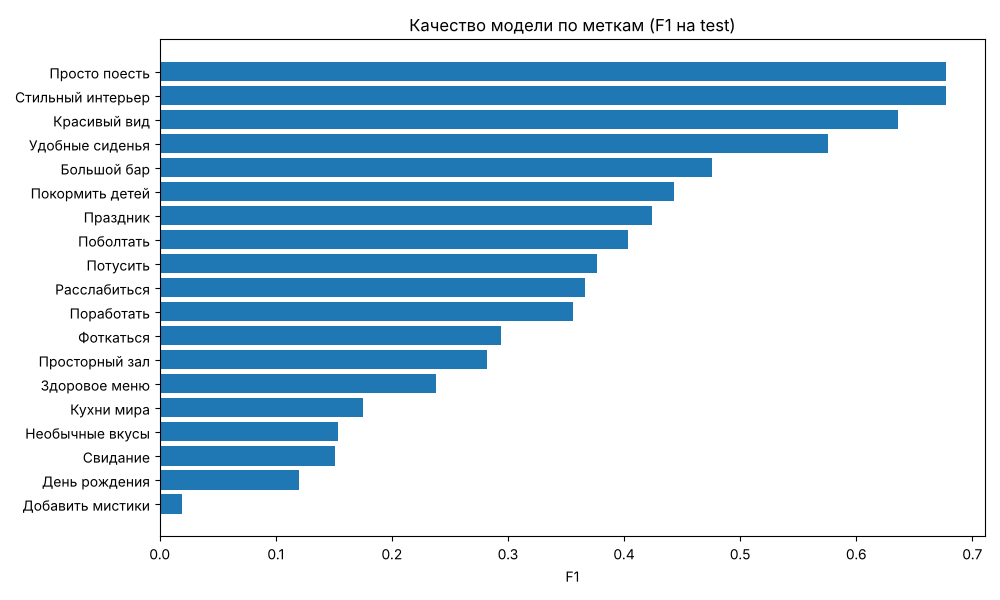
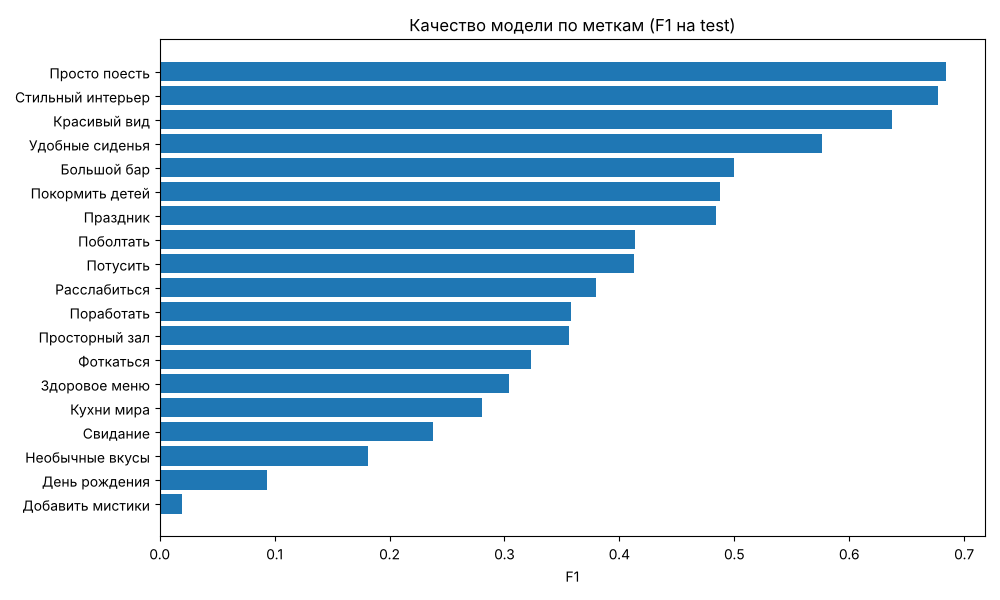
steps 6-9: train on lemmatized text_clean, update charts

diff --git a/step6_tfidf.py b/step6_tfidf.py
@@ -5,13 +5,14 @@ from sklearn.feature_extraction.text import TfidfVectorizer
 train = pd.read_csv("data/train.csv")
 test = pd.read_csv("data/test.csv")
 
-# берём 10 000 самых частых слов. lowercase=True - "Вкусно" и "вкусно" одно слово.
+# берём 10 000 самых частых лемм. Текст уже очищен в шаге 5b
+# (нижний регистр, без стоп-слов, слова в начальной форме).
 vectorizer = TfidfVectorizer(max_features=10000, lowercase=True)
 
 # fit_transform: запоминаем слова и их IDF только по train и сразу считаем TF-IDF.
-X_train = vectorizer.fit_transform(train["text"])
+X_train = vectorizer.fit_transform(train["text_clean"])
 # transform: для test используем уже запомненные слова (в test не подглядываем).
-X_test = vectorizer.transform(test["text"])
+X_test = vectorizer.transform(test["text_clean"])
 
 print("Размер X_train:", X_train.shape)
 print("Размер X_test:", X_test.shape)
@@ -20,6 +21,7 @@ print("Размер X_test:", X_test.shape)
 words = vectorizer.get_feature_names_out()
 row = X_train[0].toarray()[0]
 print("\nОтзыв:", train["text"][0][:300])
+print("После очистки:", train["text_clean"][0][:300])
 print("\nТоп-10 слов этого отзыва по TF-IDF:")
 for i in row.argsort()[::-1][:10]:
     if row[i] > 0:

diff --git a/step9_balanced.py b/step9_balanced.py
@@ -8,12 +8,13 @@ from sklearn.metrics import precision_score, recall_score, f1_score
 train = pd.read_csv("data/train.csv")
 test = pd.read_csv("data/test.csv")
 old = pd.read_csv("data/predictions.csv")  # предсказания обычной модели (шаг 7)
-labels = train.columns[3:]
+# колонки 3..21 - 19 меток (последняя колонка text_clean - это не метка)
+labels = train.columns[3:-1]
 
 # TF-IDF так же, как в шагах 6 и 7
 vectorizer = TfidfVectorizer(max_features=10000, lowercase=True)
-X_train = vectorizer.fit_transform(train["text"])
-X_test = vectorizer.transform(test["text"])
+X_train = vectorizer.fit_transform(train["text_clean"])
+X_test = vectorizer.transform(test["text_clean"])
 
 rows = []
 for label in labels:

diff --git a/step7_train.py b/step7_train.py
@@ -5,12 +5,13 @@ from sklearn.linear_model import LogisticRegression
 
 train = pd.read_csv("data/train.csv")
 test = pd.read_csv("data/test.csv")
-labels = train.columns[3:]
+# колонки 3..21 - 19 меток (последняя колонка text_clean - это не метка)
+labels = train.columns[3:-1]
 
 # TF-IDF так же, как в шаге 6
 vectorizer = TfidfVectorizer(max_features=10000, lowercase=True)
-X_train = vectorizer.fit_transform(train["text"])
-X_test = vectorizer.transform(test["text"])
+X_train = vectorizer.fit_transform(train["text_clean"])
+X_test = vectorizer.transform(test["text_clean"])
 words = vectorizer.get_feature_names_out()
 
 # сюда складываем предсказания 0/1 для test

diff --git a/step8_eval.py b/step8_eval.py
@@ -5,7 +5,8 @@ from sklearn.metrics import precision_score, recall_score, f1_score
 
 test = pd.read_csv("data/test.csv")
 predictions = pd.read_csv("data/predictions.csv")
-labels = test.columns[3:]
+# колонки 3..21 - 19 меток (последняя колонка text_clean - это не метка)
+labels = test.columns[3:-1]
 
 rows = []
 for label in labels:
